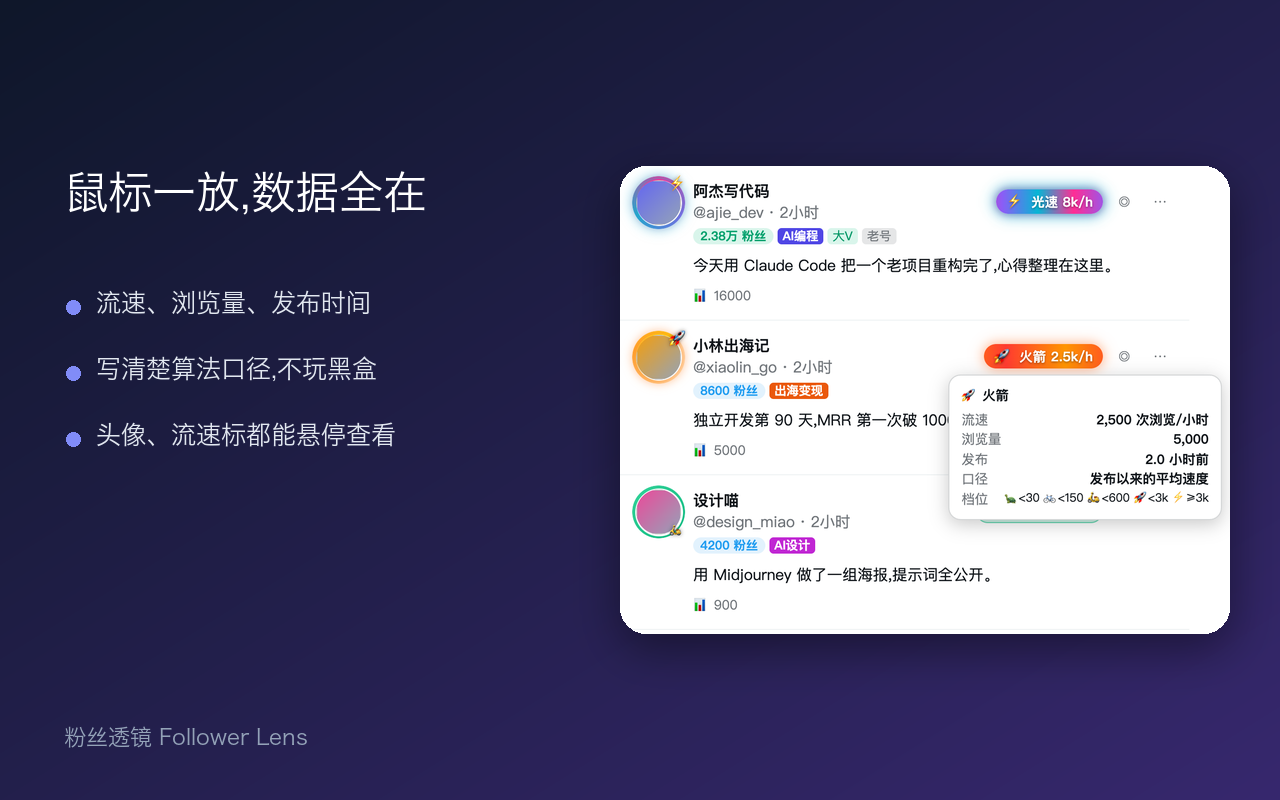
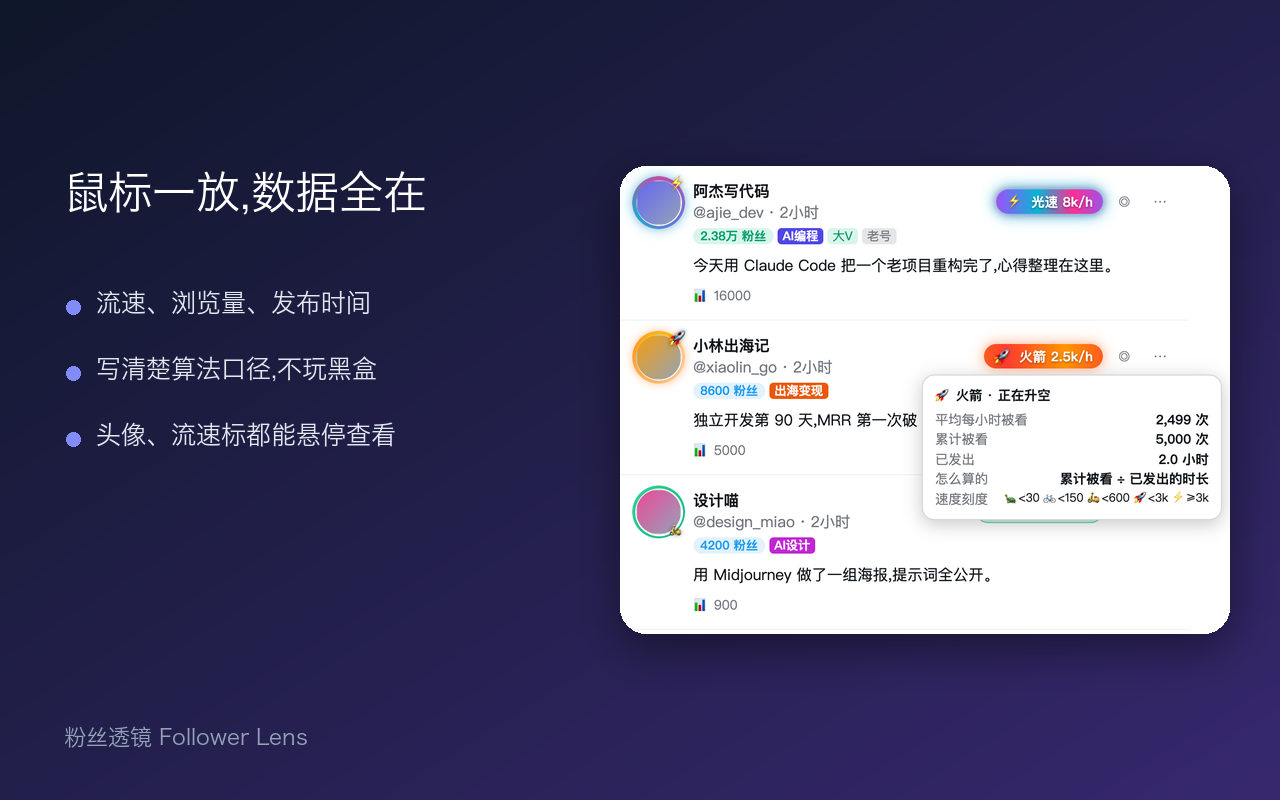
v0.14.3: 悬停说明卡换一套措辞(平均每小时被看/累计被看/已发出/怎么算的/速度刻度,标题带每档一句话);测试同步

Changed region(s): [[0.7188, 0.4688, 0.8125, 0.6562], [0.8125, 0.5, 0.9688, 0.625]]

diff --git a/content.js b/content.js
@@ -406,15 +406,16 @@
   // 悬停信息卡:鼠标放到流速标、头像上的小图标时,立刻显示这条推文的流速信息(不用等浏览器原生提示的 1 秒延迟)
   function flowCardHtml(d) {
     const { flow, trend, views } = d;
+    const MOOD = ["还在热身", "稳稳地骑", "已经跑起来了", "正在升空", "全速冲刺"];
     const rows = [];
-    rows.push(["流速", `<b>${Math.round(flow.rate).toLocaleString()} 次浏览/小时</b>`]);
-    rows.push(["浏览量", Number(views).toLocaleString()]);
-    rows.push(["发布", fmtAge(flow.ageH) + "前"]);
-    rows.push(["口径", settings.flowMode === "rel" ? "按作者粉丝量折算" : "发布以来的平均速度"]);
-    if (trend) rows.push(["最近一阵", `约 ${Math.round(trend.recent).toLocaleString()} 次/小时 ${trend.dir === "up" ? '<span class="up">↗ 在升温</span>' : trend.dir === "down" ? '<span class="down">↘ 在降温</span>' : "和平均差不多"}`]);
-    const tiers = settings.flowMode === "rel" ? "" : `<div class="fl-tip-r"><span>档位</span><b style="font-weight:400;font-size:11.5px">🐢&lt;30 🚲&lt;150 🛵&lt;600 🚀&lt;3k ⚡≥3k</b></div>`;
-    const note = flow.fresh ? "刚发布,数字还不稳" : flow.old ? "发布已久,这是发布以来的平均速度" : "";
-    return `<div class="fl-tip-h">${flow.emoji} ${flow.name}</div>` + rows.map(([k, v]) => `<div class="fl-tip-r"><span>${k}</span><b>${v}</b></div>`).join("") + tiers + (note ? `<div class="fl-tip-n">${note}</div>` : "");
+    rows.push(["平均每小时被看", `<b>${Math.round(flow.rate).toLocaleString()} 次</b>`]);
+    rows.push(["累计被看", Number(views).toLocaleString() + " 次"]);
+    rows.push(["已发出", fmtAge(flow.ageH)]);
+    rows.push(["怎么算的", settings.flowMode === "rel" ? "再按作者粉丝量折算成相对速度" : "累计被看 ÷ 已发出的时长"]);
+    if (trend) rows.push(["近段走势", `约 ${Math.round(trend.recent).toLocaleString()} 次/小时 ${trend.dir === "up" ? '<span class="up">↗ 越跑越快</span>' : trend.dir === "down" ? '<span class="down">↘ 慢下来了</span>' : "和全程差不多"}`]);
+    const tiers = settings.flowMode === "rel" ? "" : `<div class="fl-tip-r"><span>速度刻度</span><b style="font-weight:400;font-size:11.5px">🐢&lt;30 🚲&lt;150 🛵&lt;600 🚀&lt;3k ⚡≥3k</b></div>`;
+    const note = flow.fresh ? "刚发出来,数字还会变" : flow.old ? "发出已久,这是整段时间的平均值" : "";
+    return `<div class="fl-tip-h">${flow.emoji} ${flow.name} · ${MOOD[flow.tier] || ""}</div>` + rows.map(([k, v]) => `<div class="fl-tip-r"><span>${k}</span><b>${v}</b></div>`).join("") + tiers + (note ? `<div class="fl-tip-n">${note}</div>` : "");
   }
 
   function bindFlowHover(el, article) {

diff --git a/store/上架填表助手.html b/store/上架填表助手.html
@@ -18,7 +18,7 @@ code{background:rgba(127,127,127,.15);padding:1px 6px;border-radius:5px;font-siz
 <div class="step"><h2><span>1</span>打开后台,上传安装包</h2>
 <ol><li>点这里打开:<a href="https://chrome.google.com/webstore/devconsole" target="_blank">Chrome 应用商店开发者后台</a>(确认登录的是 yaohongan2021 那个账号)</li>
 <li>如果后台已经有"粉丝透镜"(之前提交过 0.2.3):点进它 → 左侧 <b>"软件包"</b> → <b>"上传新软件包"</b>。<b>若状态是"审核中"就不能上传</b>,要等出结果,或先在状态旁撤回审核。没有就点 <b>"新增商品"</b></li>
-<li>把这个文件拖进去:<code>x-follower-lens-0.14.2.zip</code>(我已经在 Finder 里给你选中了,在 <code>x-follower-lens/dist</code> 文件夹)</li></ol></div>
+<li>把这个文件拖进去:<code>x-follower-lens-0.14.3.zip</code>(我已经在 Finder 里给你选中了,在 <code>x-follower-lens/dist</code> 文件夹)</li></ol></div>
 
 <div class="step"><h2><span>2</span>"商品详情"页</h2><p class="hint">没有写到的格子,保持默认。</p>
 <div class="f"><div class="fh"><b>名称</b><button onclick="cp(0,this)">复制</button></div><pre id="v0"></pre></div><div class="f"><div class="fh"><b>摘要(简短说明)</b><button onclick="cp(1,this)">复制</button></div><pre id="v1"></pre></div><div class="f"><div class="fh"><b>详细说明(中文)</b><button onclick="cp(2,this)">复制</button></div><pre id="v2"></pre></div>

diff --git a/tests/e2e_flow.py b/tests/e2e_flow.py
@@ -62,7 +62,7 @@ with sync_playwright() as p:
     # 悬停信息卡(第 4 条 = 小电驴 450/h)
     pg.hover('article:nth-child(4) .fl-flow'); pg.wait_for_timeout(250)
     card=pg.evaluate("(()=>{const t=document.getElementById('fl-tip');return t&&t.style.display!=='none'?t.innerText.replace(/\\n/g,' | '):null})()")
-    check("鼠标放到流速标上:立刻显示信息卡(流速、浏览量、发布多久、口径、档位)",card and all(k in card for k in ("次浏览/小时","浏览量","发布","口径","档位")),card)
+    check("鼠标放到流速标上:立刻显示信息卡(平均每小时被看、累计被看、已发出、怎么算的、速度刻度)",card and all(k in card for k in ("平均每小时被看","累计被看","已发出","怎么算的","速度刻度")),card)
     pg.mouse.move(2,2); pg.wait_for_timeout(200)
     check("移开后信息卡消失",pg.evaluate("document.getElementById('fl-tip').style.display==='none'"))
     # ---- 切到 自动 ----
@@ -84,13 +84,13 @@ with sync_playwright() as p:
     check("发布 30 小时、很慢:也显示 🐢 龟速(不再藏低档,和别的流速插件对齐)",s[2] and "龟速" in s[2]["t"],s[2] and s[2]["t"])
     pg.hover('article:nth-child(9) .fl-flow'); pg.wait_for_timeout(250)
     c9=pg.evaluate("document.getElementById('fl-tip').innerText"); pg.mouse.move(2,2)
-    check("发布 30 小时但很快:显示,信息卡说明是发布以来的平均速度,不带趋势箭头",s[8] and "平均速度" in c9 and not any(a in s[8]["t"] for a in "↗↘"),c9.replace(chr(10)," | "))
+    check("发布 30 小时但很快:显示,信息卡说明是整段时间的平均值,不带趋势箭头",s[8] and "平均值" in c9 and not any(a in s[8]["t"] for a in "↗↘"),c9.replace(chr(10)," | "))
     check("发布超过 30 天:不显示",s[9] is None)
     check("900次/2h(粉丝5万,绝对)=小电驴;头部放得下时:名称+数字",s[3] and "小电驴" in s[3]["t"] and "/h" in s[3]["t"],s[3] and s[3]["t"])
     check("刚发布(12 分钟)10 次浏览 = 50/h:显示 🚲 自行车(刚发布也要有)",s[5] and "自行车" in s[5]["t"],s[5] and s[5]["t"])
     pg.hover('article:nth-child(11) .fl-flow'); pg.wait_for_timeout(250)
     c11=pg.evaluate("document.getElementById('fl-tip').innerText"); pg.mouse.move(2,2)
-    check("刚发布(3 分钟)但已经很快:显示,信息卡说明数字还不稳",s[10] and "刚发布" in c11,c11.replace(chr(10)," | "))
+    check("刚发布(3 分钟)但已经很快:显示,信息卡说明数字还不稳",s[10] and "刚发出来" in c11,c11.replace(chr(10)," | "))
     check("浏览量很少的(5 次/3 分钟)也显示,不再设样本门槛",s[11] and "/h" in s[11]["t"],s[11] and s[11]["t"])
     check("每条推文只有一个流速标",all(x["cnt"]==1 for x in s if x))
     pop0.click('input[data-key=flowPos][value=header] + span'); pop0.wait_for_timeout(300); pg.bring_to_front(); pg.wait_for_timeout(1200)

diff --git a/tests/e2e_avatar.py b/tests/e2e_avatar.py
@@ -46,7 +46,7 @@ with sync_playwright() as p:
     # 悬停信息卡
     pg.hover('article:nth-child(4) [data-testid^=UserAvatar-Container-]'); pg.wait_for_timeout(300)
     card=pg.evaluate("(()=>{const t=document.getElementById('fl-tip');return t&&t.style.display!=='none'?t.innerText.replace(/\\n/g,' | '):null})()")
-    check("鼠标放到头像上:显示信息卡",card and all(k in card for k in ("次浏览/小时","浏览量","发布","口径")),card)
+    check("鼠标放到头像上:显示信息卡",card and all(k in card for k in ("平均每小时被看","累计被看","已发出","怎么算的")),card)
     pg.mouse.move(2,2); pg.wait_for_timeout(250)
     check("移开后信息卡消失",pg.evaluate("document.getElementById('fl-tip').style.display==='none'"))
     check("方形头像(企业号):不转、没有绕圈小图标,有角标 🚀",s[5] and "square" in s[5]["cls"] and s[5]["ringAnim"]=="none" and s[5]["emoji"] is None and s[5]["badge"]=="🚀",s[5])

diff --git a/tests/e2e_trend.py b/tests/e2e_trend.py
@@ -32,7 +32,9 @@ with sync_playwright() as p:
     a0,a1=chip(0),chip(1); print(a0,a1)
     check("猛涨的推文:↗ 升温",a0 and "↗" in a0["t"],a0 and a0["t"])
     check("几乎不涨的推文:↘ 降温",a1 and "↘" in a1["t"],a1 and a1["t"])
-    check("提示里说明了最近这一阵的速度",a0 and "最近这一阵" in a0["title"] and "升温" in a0["title"],a0 and a0["title"].replace("\n"," / "))
+    pg.hover('article:nth-of-type(1) .fl-flow'); pg.wait_for_timeout(400)
+    card=pg.evaluate("(()=>{const t=document.getElementById('fl-tip');return t&&t.style.display!=='none'?t.innerText:null})()")
+    check("信息卡里说明了近段走势(越跑越快)",card and "近段走势" in card and "越跑越快" in card,card and card.replace(chr(10)," | "))
     check("无页面报错",not errs,errs)
     ctx.close()
 print("ALL PASS" if ok else "SOME FAIL")
